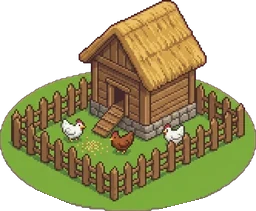
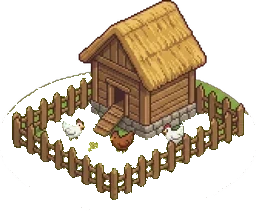
Хутір: будівлі без трав'яної підлоги; вітер, дим, бджоли
Claude-Session: https://claude.ai/code/session_01QbSGMqmN1vqNech2zGitVh

diff --git a/ads/khutir/game.js b/ads/khutir/game.js
@@ -451,18 +451,18 @@
   // готові спрайти: основа (ромб клітинки) у файлі — 256 px завширшки; ax/ay — центр основи в пікселях файлу
   const SPR = {
     grass: { src: 'img/grass.webp', ax: 128, ay: 64, fit: 1.0 },
-    home: { src: 'img/home.webp', ax: 130, ay: 147, fit: 1.15 },
+    home: { src: 'img/home.webp', ax: 130, ay: 147, fit: 1.15, ch: [143, 5] },
     coop: { src: 'img/coop.webp', ax: 128, ay: 140, fit: 1.1 },
     mill: { src: 'img/mill.webp', ax: 128, ay: 207, fit: 1.1 },
     saw: { src: 'img/saw.webp', ax: 128, ay: 151, fit: 1.1 },
     lumber: { src: 'img/lumber.webp', ax: 128, ay: 110, fit: 1.1 },
-    bakery: { src: 'img/bakery.webp', ax: 128, ay: 183, fit: 1.1 },
+    bakery: { src: 'img/bakery.webp', ax: 128, ay: 183, fit: 1.1, ch: [142, 43] },
     dairy: { src: 'img/dairy.webp', ax: 128, ay: 150, fit: 1.1 },
     cheese: { src: 'img/cheese.webp', ax: 128, ay: 150, fit: 1.1 },
     apiary: { src: 'img/apiary.webp', ax: 128, ay: 146, fit: 1.1 },
     press: { src: 'img/press.webp', ax: 128, ay: 162, fit: 1.1 },
-    pastry: { src: 'img/pastry.webp', ax: 128, ay: 193, fit: 1.1 },
-    meadery: { src: 'img/meadery.webp', ax: 128, ay: 175, fit: 1.1 },
+    pastry: { src: 'img/pastry.webp', ax: 128, ay: 193, fit: 1.1, ch: [142, 43] },
+    meadery: { src: 'img/meadery.webp', ax: 128, ay: 175, fit: 1.1, ch: [148, 41] },
     well: { src: 'img/well.webp', ax: 128, ay: 162, fit: 1.1 },
     soil: { src: 'img/soil.webp', ax: 128, ay: 66, fit: 1.02 },
     wheat0: { src: 'img/wheat0.webp', ax: 129, ay: 66, fit: 1.02 },
@@ -495,12 +495,33 @@
   };
   const BUSHES = ["bush0", "bush1", "bush2", "bush3", "bush5", "bush6", "bush7", "bush8", "bush10", "bush11", "bush12", "bush13", "bush14", "bush15"];
   for (const k in SPR) { const im = new Image(); im.src = SPR[k].src; SPR[k].im = im; }
-  function sprite(k, X, Y, z) {
+  function sprite(k, X, Y, z, sw, sq) {
     const sp = SPR[k]; if (!sp || !sp.im.complete || !sp.im.naturalWidth) return false;
     const sc = (TW * z * sp.fit) / 256;
     g.imageSmoothingQuality = 'high';
-    g.drawImage(sp.im, X - sp.ax * sc, Y - sp.ay * sc, sp.im.naturalWidth * sc, sp.im.naturalHeight * sc);
-    return true;
+    if (!sw && !sq) { g.drawImage(sp.im, X - sp.ax * sc, Y - sp.ay * sc, sp.im.naturalWidth * sc, sp.im.naturalHeight * sc); return true; }
+    g.save(); g.translate(X, Y); g.transform(1 - (sq || 0) * 0.5, 0, -(sw || 0), 1 + (sq || 0), 0, 0);
+    g.drawImage(sp.im, -sp.ax * sc, -sp.ay * sc, sp.im.naturalWidth * sc, sp.im.naturalHeight * sc);
+    g.restore(); return true;
+  }
+  // вітер: повільні пориви, що біжать по карті
+  const wind = (x, y, t, amp) => amp * (Math.sin(t / 900 + x * 0.6 + y * 0.35) * 0.7 + Math.sin(t / 2300 + x * 0.2) * 0.3);
+  // дим із комина: клубочки піднімаються, ростуть і тануть
+  function smoke(k, X, Y, z, t, seed) {
+    const sp = SPR[k]; if (!sp || !sp.ch || !sp.im.naturalWidth) return;
+    const sc = (TW * z * sp.fit) / 256, cx = X + (sp.ch[0] - sp.ax) * sc, cy = Y + (sp.ch[1] - sp.ay) * sc;
+    for (let i = 0; i < 6; i++) {
+      const ph = ((t / 2600 + i / 6 + seed * 0.37) % 1);
+      const x = cx + Math.sin(ph * 5 + seed + i) * 3 * z + ph * 10 * z, y = cy - ph * 34 * z, r = (2 + ph * 6) * z;
+      g.globalAlpha = 0.55 * (1 - ph) * Math.min(1, ph * 6);
+      g.fillStyle = '#E9E4DA'; g.beginPath(); g.arc(x, y, r, 0, 7); g.fill();
+    }
+    g.globalAlpha = 1;
+  }
+  // бджілки над пасікою
+  function bees(X, Y, z, t, seed) {
+    g.fillStyle = '#2B2116';
+    for (let i = 0; i < 5; i++) { const a = t / 380 + i * 1.3 + seed; g.beginPath(); g.arc(X + Math.cos(a) * 16 * z + Math.sin(a * 2.3) * 4 * z, Y - 22 * z + Math.sin(a * 1.6) * 8 * z, 1.3 * z, 0, 7); g.fill(); }
   }
   function drawHouse(cx, cy, z, wall, roof, ic, hut) {
     const w = TW * 0.72 * z, hh = TH * 0.72 * z, h = 20 * z, rh = 18 * z;
@@ -543,7 +564,8 @@
   function decor(x, y) { const h = h01(x + 31, y + 17); if (h < 0.07) return BUSHES[Math.floor(h01(x, y + 99) * BUSHES.length)]; if (h < 0.09) return 'pebbles'; return ''; }
   function drawField(cx, cy, z, grow, ripe) {
     // мальовані стадії: паростки → зелена → жовтіє → стигла
-    if (sprite(ripe ? 'wheat3' : grow < 0.34 ? 'wheat0' : grow < 0.67 ? 'wheat1' : 'wheat2', cx, cy, z)) return;
+    const st = ripe ? 'wheat3' : grow < 0.34 ? 'wheat0' : grow < 0.67 ? 'wheat1' : 'wheat2';
+    if (sprite(st, cx, cy, z, st === 'wheat0' ? 0 : wind(cx / 40, cy / 40, performance.now(), 0.05))) return;
     const soil = sprite('soil', cx, cy, z);
     if (!soil) { g.fillStyle = '#8A5A35'; diamond(cx, cy, TW * 0.94 * z, TH * 0.94 * z); g.fill(); }
     g.strokeStyle = '#74492A'; g.lineWidth = 1.5 * z;
@@ -697,11 +719,11 @@
       if (X < -tw || X > W + tw || Y < -pad || Y > H + th + pad * 2) { if (x === Math.min(N - 1, d) && vByTile.has(d)) for (const p of vByTile.get(d)) drawVill(p, s, z, t); continue; }
       const i = K.idx(x, y), b = bmap.get(i);
       if (b) drawBuilding(b, X, Y, z, t, dt, bon, s);
-      else if (s.ob[i] === 't' && sprite(treeKind(x, y), X, Y + 4 * z, z * (treeKind(x, y) === 'apple1' ? 0.8 : 0.6))) {}
+      else if (s.ob[i] === 't' && sprite(treeKind(x, y), X, Y + 4 * z, z * (treeKind(x, y) === 'apple1' ? 0.8 : 0.6), wind(x, y, t, 0.025))) {}
       else if (s.ob[i] === 'r' && sprite(h01(x + 3, y + 11) < 0.5 ? 'rock' : 'rocks', X, Y + 6 * z, z * 0.8)) {}
       else if (s.ob[i] === 't') drawTree(X, Y, z, ownedSet.has(K.chunkOf(x, y)), 0);
       else if (s.ob[i] === 'r') drawRock(X, Y, z);
-      else if (!s.ob[i]) { const dk = decor(x, y); if (dk && dk !== 'pebbles') sprite(dk, X + (h01(x, y + 5) - 0.5) * 18 * z, Y + (h01(x + 5, y) - 0.5) * 8 * z, z); }
+      else if (!s.ob[i]) { const dk = decor(x, y); if (dk && dk !== 'pebbles') sprite(dk, X + (h01(x, y + 5) - 0.5) * 18 * z, Y + (h01(x + 5, y) - 0.5) * 8 * z, z, wind(x, y, t, 0.05)); }
       // селяни, що стоять на цій «діагоналі», — після неї, щоб не ховалися за будинками
       if (x === Math.min(N - 1, d) && vByTile.has(d)) for (const p of vByTile.get(d)) drawVill(p, s, z, t);
     }
@@ -738,12 +760,17 @@
   function drawBuilding(b, X, Y, z, t, dt, bon, s) {
     const d = B[b.k], dur = d.d ? K.durOf(b, bon) : 1;
     const prog = b.p >= 0 ? Math.min(1, (b.p + dt) / dur) : b.buf ? 1 : 0;
-    if (d.kind !== 'home' && sprite(b.k, X, Y, z)) { if (d.wall) lights.push([X + 9 * z, Y - 8 * z, 0.7]); }
+    const busy = b.p >= 0, sq = busy && d.kind !== 'well' ? 0.012 * Math.sin(t / 240 + b.id * 1.7) : 0;
+    if (d.kind !== 'home' && d.kind !== 'orchard' && sprite(b.k, X, Y, z, 0, sq)) {
+      if (d.wall) lights.push([X + 9 * z, Y - 8 * z, 0.7]);
+      if (busy && SPR[b.k].ch) smoke(b.k, X, Y, z, t, b.id);
+      if (busy && b.k === 'apiary') bees(X, Y, z, t, b.id);
+    }
     else if (d.kind === 'field') drawField(X, Y, z, b.buf ? 1 : prog, b.buf > 0);
-    else if (d.kind === 'orchard' && sprite(b.buf ? 'apple3' : 'apple2', X, Y, z)) {}
+    else if (d.kind === 'orchard' && sprite(b.buf ? 'apple3' : 'apple2', X, Y, z, wind(b.x, b.y, t, 0.02))) {}
     else if (d.kind === 'orchard') { g.fillStyle = '#6DAF4E'; diamond(X, Y, TW * 0.9 * z, TH * 0.9 * z); g.fill(); drawTree(X - 12 * z, Y - 2 * z, z * 0.75, 1, b.buf ? 3 : Math.floor(prog * 3)); drawTree(X + 12 * z, Y - 2 * z, z * 0.75, 1, b.buf ? 3 : Math.floor(prog * 2)); drawTree(X, Y + 6 * z, z * 0.8, 1, b.buf ? 4 : Math.floor(prog * 3)); }
     else if (d.kind === 'well') drawWell(X, Y, z);
-    else if (d.kind === 'home') { if (!sprite('home', X, Y, z)) drawHouse(X, Y, z, '#F4EFE4', '#C9A24A', '', true); lights.push([X - 10 * z, Y - 10 * z, 1]); }
+    else if (d.kind === 'home') { if (!sprite('home', X, Y, z)) drawHouse(X, Y, z, '#F4EFE4', '#C9A24A', '', true); else smoke('home', X, Y, z, t, b.id); lights.push([X - 10 * z, Y - 10 * z, 1]); }
     else if (d.kind === 'apiary') { g.fillStyle = '#88C463'; diamond(X, Y, TW * 0.9 * z, TH * 0.9 * z); g.fill(); drawHives(X, Y, z, t); }
     else { drawHouse(X, Y, z, d.wall, d.roof, d.ic); lights.push([X + 9 * z, Y - 8 * z, 0.7]); }
     if (!d.d) return;

diff --git a/upd.md b/upd.md
@@ -24,6 +24,12 @@
 
 ---
 
+## 2026-10-29 (44) — Хутір: будівлі без підлоги, перші анімації
+
+- Зі спрайтів будівель і яблунь прибрано трав'яну клітинку й обвідку — усе стоїть прямо на спільній траві, без різних площин.
+- Анімації в коді (без нових картинок): пшениця, дерева, кущі й сад гойдаються від вітру; працююча будівля ледь «дихає»;
+  дим із комина хати (завжди) і пекарні, кондитерської, медоварні (поки працюють); бджоли над пасікою. Намальований статичний дим прибрано.
+
 ## 2026-10-28 (43) — Хутір: селяни, хати, вигляд, день і ніч
 
 - У кожного гравця свій селянин (у соло — один, у спільному — по одному на кожного, хто зайшов). Живе в хаті-мазанці під стріхою,
